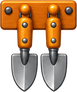
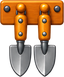
Настенные предметы — на одной линии и ниже потолка
Картинки и инструменты фермы висят верхом на 1,95 м, полки — доской на 1,5 м
(доска находится по самой широкой строке картинки). Жердь амбара ниже, связки
мельче; доска с инструментами фермы уже — не задевает лампы.

Claude-Session: https://claude.ai/code/session_01Gsst3hFuf1c6zM4f6Jt7o5

diff --git a/art_src/rooms/cut_sheets.py b/art_src/rooms/cut_sheets.py
@@ -55,7 +55,7 @@ SHEETS = [
         'bed': (420, 160, 2.0), 'shoots_1': (1165, 177, 655 / 380), 'shoots_2': (394, 409, 745 / 380),
         'shoots_3': (1151, 396, 714 / 380),
         'lamp_off': (410, 636, 1.7), 'lamp_on': (1128, 635, 1.7),
-        'can': (248, 861, 0.45), 'tools': (566, 832, 0.6), 'gauge': (948, 866, 0.32), 'hose': (1307, 863, 0.45),
+        'can': (248, 861, 0.45), 'tools': (566, 832, 0.5), 'gauge': (948, 866, 0.32), 'hose': (1307, 863, 0.45),
     }),
 ]
 
